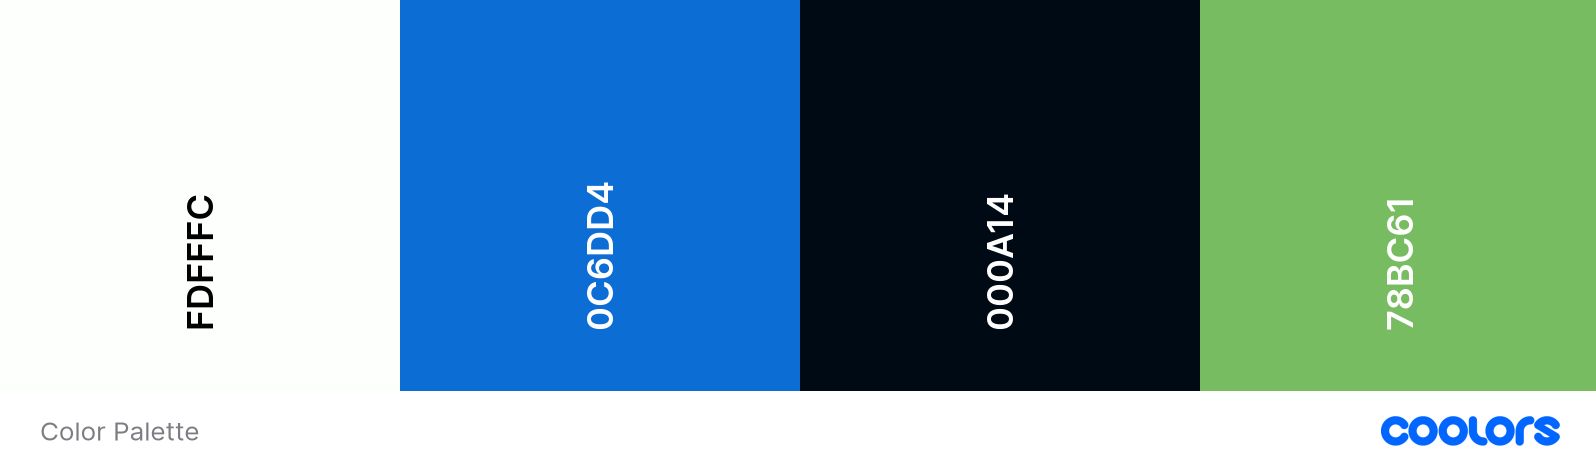
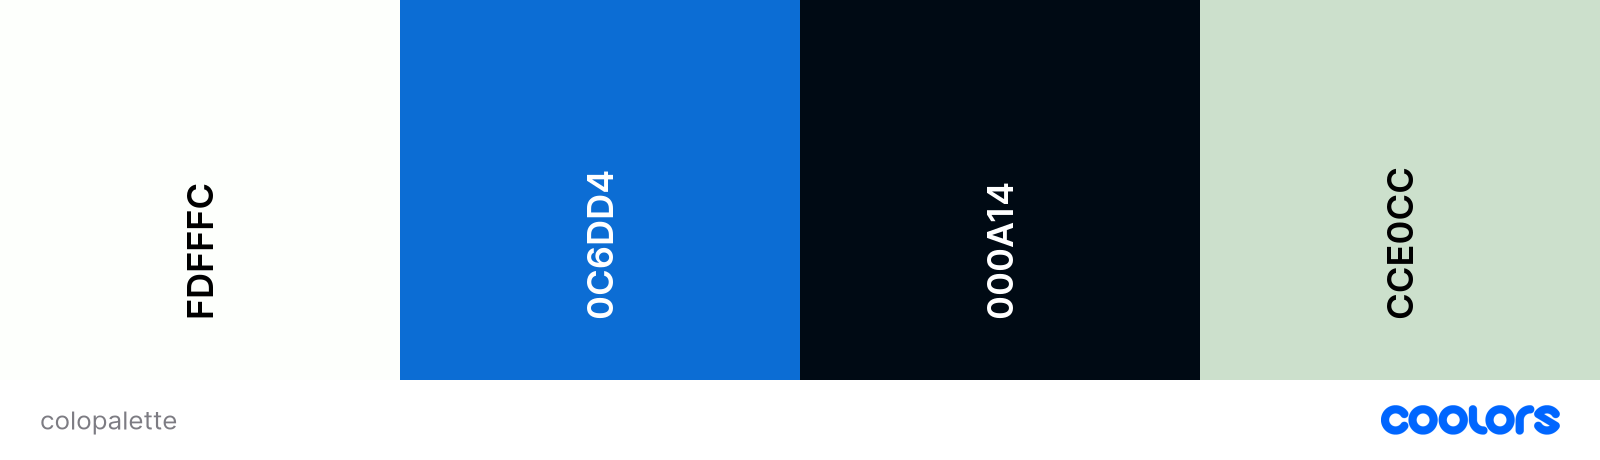
Change and restyle images for trails

diff --git a/index.html b/index.html
@@ -54,7 +54,6 @@
             <br>
             <div id="what-to-bring">
                 <h3>What you'll need <i class="fa-solid fa-circle-question"></i></h3>
-                <br>
                 <ul>
                     <li>DENR Fee- P175/person</li>
                     <li>Environmental and Cultural Heritage Fee – P150/person</li>
@@ -68,7 +67,6 @@
         </section>
         <section id="gallery" class="main-content">
             <h2><i class="fa-solid fa-camera"></i> What to see</h2>
-            <br>
             <div class="scroll-gallery">
                 <img src="assets/images/hikers-seaofclouds.webp" alt="hikers enjoying the view of the sea of clouds">
                 <img src="assets/images/grassland-mtpulag.webp" alt="grassland atop the mountain">
@@ -99,7 +97,6 @@
             <br>
             <div id="easy-trail">
                     <h3>Ambangeg Trail <i class="fa-solid fa-person-hiking"></i></h3>
-                    <br>
                     <p>The easy trail starts from Ambangeg, Bokod, Benguet, where hikers are brought
                         up to the ranger's station in Babalak, Kabayan by a vehicle. From there, the hike takes
                         about 3 hours to Mt. Pulag. Generaly considered as moderate with 3/9 difficulty level it is 
@@ -113,7 +110,6 @@
             <br>
             <div id="killer-trail">
                 <h3>Akiki Trail <i class="fa-solid fa-person-hiking"></i></h3>
-                <br>
                 <p>Dubbed as the <i>Killer trail</i>  because of about 10 hour hike on a very steep trail (60-70
                     degree slope). The jump-off point is at Duacan, Kabayan, Benguet. It is considered an <i>Expert 
                     level climb</i> with 7/9 difficulty level. For experienced hikers.</p>
@@ -128,7 +124,6 @@
                 <h2>Soon to open!</h2>
                 <br>
                 <h3>Tawangan Trail <i class="fa-solid fa-person-hiking"></i></h3>
-                <br>
                 <p>Aka the <i>Bloody trail</i> because of the notorious blood sucking <i>Limatiks</i> along the way, 
                     it features a long trail in the mossy forest and takes about 10 hours on average to traverse.
                     This trail is less taken by hikers, so you meet almost no one along the trail.

diff --git a/assets/css/style.css b/assets/css/style.css
@@ -122,11 +122,11 @@ main {
     background-blend-mode: soft-light;
     display: flex;
     flex-direction: column;
-    min-height: 50vh;
+    min-height: 52vh;
 }
 
 .main-content {
-    padding: 10px;
+    padding: 5px;
     line-height: 1.5;
 }
 
@@ -136,7 +136,7 @@ main {
 
 /* About us */
 #aboutus {
-    padding: 10% 5%;
+    padding: 10% 5% 5%;
     text-align: center;
 }
 #what-to-bring {
@@ -153,7 +153,7 @@ div.scroll-gallery {
     background-color: rgba(245, 245, 245, .5);
     overflow: scroll;
     white-space: nowrap;
-    padding: 10px 5px;
+    padding: 5px;
   }
   
 div.scroll-gallery img {
@@ -162,21 +162,25 @@ div.scroll-gallery img {
     height: 100%;
   }
 
-.hidden-header {
-    display: none;
-}
-
 /* Popular trails */
 
 #trail {
     display: flex;
     flex-direction: column;
+    justify-content: center;
+    align-content: center;
     margin-top: 2%;
-    text-align: center;
+}
+
+#trail > div {
+    display: flex;
+    flex-direction: column;
+    justify-content: center;
+    align-items: center;
 }
 
 .sched {
-    text-align: left;
+    align-self: flex-start;
 }
 
 #coming-soon {
@@ -271,6 +275,7 @@ div.scroll-gallery img {
 #response-text {
     display: flex;
     flex-direction: column;
+    flex-wrap: wrap;
     align-content: center;
     text-align: center;
     padding-top: 15%;
@@ -283,6 +288,9 @@ div.scroll-gallery img {
 
 
 /* Footer */
+footer {
+    padding-bottom: 10px;
+}
 #contacts {
     text-align: center;
     display: block;
@@ -368,24 +376,24 @@ footer > h3, h4 {
     }
 
      /* Gallery */
-     div.scroll-gallery img {
+    div.scroll-gallery img {
         width: 40%;
         height: 40%;
-      }
+    }
 
      /* Popular Trails */
-     #trail {
+    #trail {
         padding: 0 15%;
-     }
+    } 
 
-     #trail img {
+    #trail img {
         width: 75%;
         height: 75%;
     }
     
 
      /* Signup form*/
-     #signup {
+    #signup {
         background-position: center;
         position: absolute;
     }
@@ -439,6 +447,10 @@ footer > h3, h4 {
     .join-button:hover {
         background-color: #0C6dd4;
         color: #ffffff;
+    }
+
+    #response-text {
+        padding-top: 10%;
     }
 
     /* Footer */

diff --git a/response.html b/response.html
@@ -7,7 +7,7 @@
     <!-- Meta tags for search engines -->
     <meta name="description" content="Hiking mount Pulag in Kabayan, Benguet, Philippines. Ambangeg Trail, Akiki Trail">
     <meta name="keywords" content="hiking, hikers, mount Pulag, Ambangeg trail, Akiki trail, Kabayan, Benguet">
-    <meta http-equiv="refresh" content="10; url=index.html">
+    <!-- <meta http-equiv="refresh" content="10; url=index.html"> -->
     <!-- Title -->
     <title>Mt. Pulag Hikers</title>
     <!-- Favicon -->

diff --git a/README.md b/README.md
@@ -85,7 +85,7 @@ Through the help of social media, Mt. Pulag is getting noticed by avid hikers an
 ### Colour Scheme
 
 ![Color pallete](documentation/colorpalette.png)
-The website uses the scheme to go with the colors of nature in the photography. Tea green to stay true to the color of nature was used as a background color, and wizard blue as the clear skies as response color as highlights. The color palette was generated through the Coolors website.
+The website uses the scheme to go with the colors of nature in the photography. Jocular green was used as a background color to stay true to the color of nature, and wizard blue as the clear skies as hover effect color on the input fields and submit button, and as response color on the buttons. The color palette was generated through the Coolors website.
 
 
 ### Typography
@@ -118,6 +118,8 @@ Wireframes are created for all the page sections using Balsamiq.
 
 * Response Page
 
+![Mobile response page](documentation/mobreswf.png)
+
 #### Tablets
 * Home Page
 
@@ -125,12 +127,16 @@ Wireframes are created for all the page sections using Balsamiq.
 
 * Response Page
 
+![Tablet response page](documentation/tabreswf.png)
+
 #### Desktop
 * Home Page
 
-![bBrowser home page](documentation/browser-wireframe.png)
+![Browser home page](documentation/browser-wireframe.png)
 
 * Response Page
+
+![Browser response page](documentation/broreswf.png)
 
 ## Features
 
